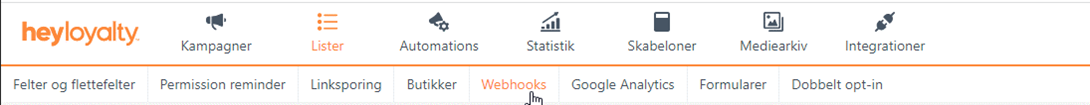
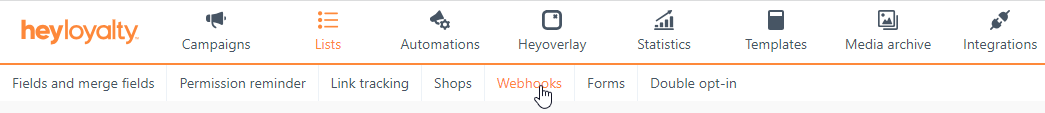
wip

diff --git a/content/en/docs/integrations/heyloyalty/reference/module_setup_overview/index.md b/content/en/docs/integrations/heyloyalty/reference/module_setup_overview/index.md
@@ -36,7 +36,7 @@ There are the following fields on the page:
 | <td>**Member List Integration Area** subsection</td> |
 | Member Integration | Specifies whether the Member List integration area is enabled. This will enable member information to be sent to HeyLoyalty. |
 | HeyLoyalty Member List ID | Specifies the HeyLoyalty member list ID integration is coupled with. |
-| Membership HL Field ID | Specifies the HeyLoyalty field ID (the value from column _Flettefelt_ in HeyLoyalty field definition page) for storing information about membership code (is not required, if you don't plan to have member membership IDs at HeyLoyalty). |
+| Membership HL Field ID | Specifies the HeyLoyalty field ID (the value from column _Merge field_ in HeyLoyalty field definition page) for storing information about membership code (is not required, if you don't plan to have member membership IDs at HeyLoyalty). |
 | Required Contact Info | Specifies required contact methods (email and/or phone) that must be specified in the member card before BC will submit the member data to HeyLoyalty. |
 | Require GDPR Approval | Specifies whether the member must agree to GDPR before BC will submit the member data to HeyLoyalty. We recommend you enable this parameter. |
 | Require Newsletter Subscription | Specifies whether the member must subscribe to the e-mail newsletter (**E-Mail News Letter** field on the member card) before BC will submit the member data to HeyLoyalty. We recommend you enable this parameter. |
@@ -64,7 +64,7 @@ On the **HL MultiChoice Field** page create a separate entry for each of the mul
 | Code | Specifies a code to identify this HeyLoyalty multiple choice field. |
 | Description | Specifies an explanation of the HeyLoyalty multiple choice field. |
 | Magento Field Name | Specifies the id used for the field at Magento (only required if you wish to sync the field to Magento as well). |
-| HeyLoyalty Field Name | Specifies the id used for the field at HeyLoyalty (the value from column _Flettefelt_ in HeyLoyalty field definition page). |
+| HeyLoyalty Field Name | Specifies the id used for the field at HeyLoyalty (the value from column _Merge field_ in HeyLoyalty field definition page). |
 
 Next you'll need to specify the list of possible option values for each of the multiple choice fields. To do that, put your cursor on the line with the field definition in the **HL MultiChoice Field** page, and in page's menu ribbon click **Options**.
 ![Page HL MultiChoice Field Options](images/HLMultiChoiceFieldOptionsPage.png)
@@ -74,7 +74,7 @@ On the **HL MultiChoice Field Options** page you'll need to specify the followin
 | Sort Order | Specifies the sort order of the option value. The lower the number, the higher in the list the option value will appear. Is assigned automatically, but you can change it if necessary. |
 | Description | Specifies an explanation of the HeyLoyalty multiple choice field option value. |
 | Magento Description | Specifies the id used for the field option value at Magento (only required if you wish to sync the field to Magento as well). |
-| HeyLoyalty Field Name | Specifies the id used for the field option value at HeyLoyalty. Usually consists of 6 digits. You may have to contact your HeyLoyalty provider to get the option value ids for the field. |
+| HeyLoyalty Field Name | Specifies the id used for the field option value in HeyLoyalty. Usually consists of 6 digits. You may need to contact your HeyLoyalty provider to get the option value ids for the field. |
 
 {{< alert icon="📝" text="Please note that you may need to extend the HeyLoyalty integration functionality, if you want to be able to modify selected multiple choice field values for members in BC, as this is not supported out of the box."/>}}
 
@@ -83,11 +83,19 @@ You can map any HeyLoyalty single choice or text field to a member attribute in 
 Please refer to [_this documenation section_]({{< ref "../../../../retail/attributes/how-to/client_attributes/client_attributes.md" >}}), if you need more information on how to setup member attributes.
 {{< alert icon="📝" text="Please note that you must set the <b>Value Datatype</b> field to <i>Text</i>, <b>On Validate</b> field to <i>Lookup</i> and disable <b>LookUp Table</b> on the <b>Client Attribute Card</b> page to be able to synchronize the attribute between BC and HeyLoyalty."/>}}
 
-Additionally, to map a member attribute and its option values with a HeyLoyalty field, you'll need to do the following:
-- Specify **HeyLoyalty Field ID** (the value from column _Flettefelt_ in HeyLoyalty field definition page) for each member attribute on the **Client Attribute Card** page. The field **Default HeyLoyalty Value** on the **Client Attribute Card** page specifies the default attribute value to be sent to HeyLoyalty in cases, when the attribute has no value assigned for the member in BC.
-- Specify **HeyLoyalty Name** for each attribute value on the **Client Attribute Value Lookup** page.
+In addition, to map a member attribute and its option values to a HeyLoyalty field, you'll need to do the following:
+- on the **Client Attribute Card** page:
+  - Specify **HeyLoyalty Field ID** (the value from column _Merge field_ in HeyLoyalty field definition page) for each member attribute.
+  - Specify **Default HeyLoyalty Value**, if you need a default attribute value to be sent to HeyLoyalty in cases, when the attribute has no value assigned for the member in BC.
+  - Enable **Auto Create New Values** boolean field, if you wish a new attribute value automatically created in BC, when a non-existing attribute value is received from HeyLoyalty.
+- on the **Client Attribute Value Lookup** page:
+  - Specify **HeyLoyalty Name** for each attribute value.
 
 ## Stores
+Each member can have a preferred store selected on their card in BC. This is essencially a Collect Store from NP Retail [Click & Collect]({{< ref "../../../../retail/click_and_collect/intro.md" >}}) module.
+For each shop you have in HeyLoyalty, you'll need to create a [Collect Store]({{< ref "../../../../retail/click_and_collect/how-to/setup/setup.md#create-a-new-collect-store" >}}) in BC and map the entities to each other to be able to synchronize the store code selected on each member card between BC and HeyLoyalty.
+In order to associate a BC Collect store with a HeyLoyalty store, you'll need to specify in BC the id used for the store at HeyLoyalty. The id must be entered on the **Collect Store Card** page in the **HeyLoyalty Name** field.
+A HeyLoyalty store id usually consists of 5 digits. You may need to contact your HeyLoyalty provider to get the store IDs.
 
 ## Data Log Subscribers
 

diff --git a/content/en/docs/integrations/heyloyalty/how-to/setup_hl_webhook/index.md b/content/en/docs/integrations/heyloyalty/how-to/setup_hl_webhook/index.md
@@ -32,7 +32,7 @@ Generally a BC webservice URL for HeyLoyalty has the following structure:
 ```URL
 https://api.businesscentral.dynamics.com/v2.0/<Your BC tenant ID>/<Your BC environment name>/ODataV4/Company('<Your BC company name>')/heyloyalty_services
 ```
-As you may see there are character pairs **'(** and **)'** surrounding your BC company name. HeyLoyalty doesn’t support that. Therefore you’ll have to replace `'(` with `%28%27` and `)'` with `%27%29`. For example:
+As you can see, there are character pairs `('` and `')` around your BC company name. HeyLoyalty doesn't support this. So you'll need to replace the character pair `('` with their URL encoded representation `%28%27`, and replace `')` with `%27%29`. For example:
   - Original URL:
 ```
 https://api.businesscentral.dynamics.com/v2.0/1f807cd6-d8bf-4bb0-b2e4-922d41e37d37/Production/ODataV4/Company('CRONUS%20Danmark%20A%2FS')/heyloyalty_services
@@ -43,24 +43,25 @@ https://api.businesscentral.dynamics.com/v2.0/1f807cd6-d8bf-4bb0-b2e4-922d41e37d
 ```
 
 3. In your HeyLoyalty environment:
-   - Select *Lister*, then choose *Rediger lister* for the list you want to set the webhook for.
+   - On the top menu ribbon select *Lists*, then choose *Edit list* for the list you want to set the webhook for.
    - Select *Webhooks* subsection
 !["Webhooks" subsection of a HeyLoyalty list](Images/HLWebhooks.png)
 <br><br>
-   - Click *Opret et webhook* to create a new webhook. Fill in the following fields for the new webhook:
+   - Click *Create a webhook* to create a new webhook. Fill in the following fields for the new webhook:
 | Field name | Recommended value |
 |------------|---------------------------|
 | URL | The adjusted web service URL from BC you have prepared earlier |
-| Send som rå json-object | `Yes` |
-| Forsimplet format | `Yes` |
+| Contact email | Specify an email address to which webhook errors should be sent |
+| Send as raw json object | `Yes` |
+| Simplified format | `Yes` |
 | Authentication type | `OAuth 2.0` |
-| Brugernavn | The **Application (Client) ID** from the Azure AD application details page that was shown to you at the end of the ["Create Azure Active Directory application for HeyLoyalty"]({{< ref "aad_app/index.md" >}}) process |
-| Vis kodeord | The **Client Secret** value from the Azure AD application details page |
-| base url | `https://login.microsoftonline.com/<Your BC tenant ID>/oauth2/v2.0` |
+| Username | The **Application (Client) ID** from the Azure AD application details page that was shown to you at the end of the ["Create Azure Active Directory application for HeyLoyalty"]({{< ref "aad_app/index.md" >}}) process |
+| Password | The **Client Secret** value from the Azure AD application details page |
+| base URL | `https://login.microsoftonline.com/<Your BC tenant ID>/oauth2/v2.0` |
 | scopes (optional) | `https://api.businesscentral.dynamics.com/.default` |
-| Tilmeld medlem (e-mail, mobil) | `Yes` |
-| Tilmeld medlem (Heypush) | `Yes` |
-| Opdater medlem | `Yes` |
-| Frameld medlem | `Yes` |
-| Spamklage | `Yes` |
+| New subscriber (email, phone) | `Yes` |
+| New subscriber (heypush) | `Yes` |
+| Update subscriber | `Yes` |
+| Unsubscribe subscriber | `Yes` |
+| Spam complaint | `Yes` |
 | Hard bounces | `Yes` |

diff --git a/content/en/docs/integrations/heyloyalty/how-to/setup_memb_sync/index.md b/content/en/docs/integrations/heyloyalty/how-to/setup_memb_sync/index.md
@@ -31,7 +31,7 @@ HeyLoyalty integration feature is not enabled by default. To enable it, navigate
 </details>
 <br>
 
-2. Fill in the following fields on the page (see [_Module Setup Overview_]({{< ref "../../reference/module_setup_overview/index.md#heyloyalty-integration-setup" >}}), if you need more details on the fields):
+2. Fill in the following fields on the page (see [_Module Setup Overview: HeyLoyalty Integration Setup_]({{< ref "../../reference/module_setup_overview/index.md#heyloyalty-integration-setup" >}}), if you need more details on the fields):
 | Field name | Recommended value |
 |------------|-------------------|
 | <td>**General** FastTab</td> |
@@ -49,10 +49,10 @@ HeyLoyalty integration feature is not enabled by default. To enable it, navigate
 | HeyLoyalty Api Key | The Api key you acquired from your HeyLoyalty partner |
 | HeyLoyalty Api Secret | The Api secret you acquired from your HeyLoyalty partner |
 
-3. Set up multiple choice field mapping. See [_Module Setup Overview_]({{< ref "../../reference/module_setup_overview/index.md#heyloyalty-multiple-choice-fields" >}}) if you need more information on what HeyLoyalty multiple choice fields are, and how to set them up.
+3. Set up multiple choice field mapping. See [_Module Setup Overview: HeyLoyalty Multiple Choice Fields_]({{< ref "../../reference/module_setup_overview/index.md#heyloyalty-multiple-choice-fields" >}}), if you need more information on what HeyLoyalty multiple choice fields are, and how to set them up.
 
-4. Set up BC member attribute mapping with HeyLoyalty single choice and text fields. See [_Module Setup Overview_]({{< ref "../../reference/module_setup_overview/index.md#member-attributes" >}}) if you need more information on how to set up member attributes.
+4. Set up BC member attribute mapping with HeyLoyalty single choice and text fields. See [_Module Setup Overview: Member Attributes_]({{< ref "../../reference/module_setup_overview/index.md#member-attributes" >}}), if you need more information on how to set up member attributes in BC.
 
-5. Set up BC collect store mapping with HeyLoyalty Butikker (list of stores existing in HeyLoyalty).
+5. Set up BC collect store mapping with HeyLoyalty stores (list of stores existing in HeyLoyalty). See [_Module Setup Overview: Stores_]({{< ref "../../reference/module_setup_overview/index.md#stores" >}}), if you need more information on how to set up collect stores in BC.
 
 6. Set up BC country/region mapping with HeyLoyalty countries.
